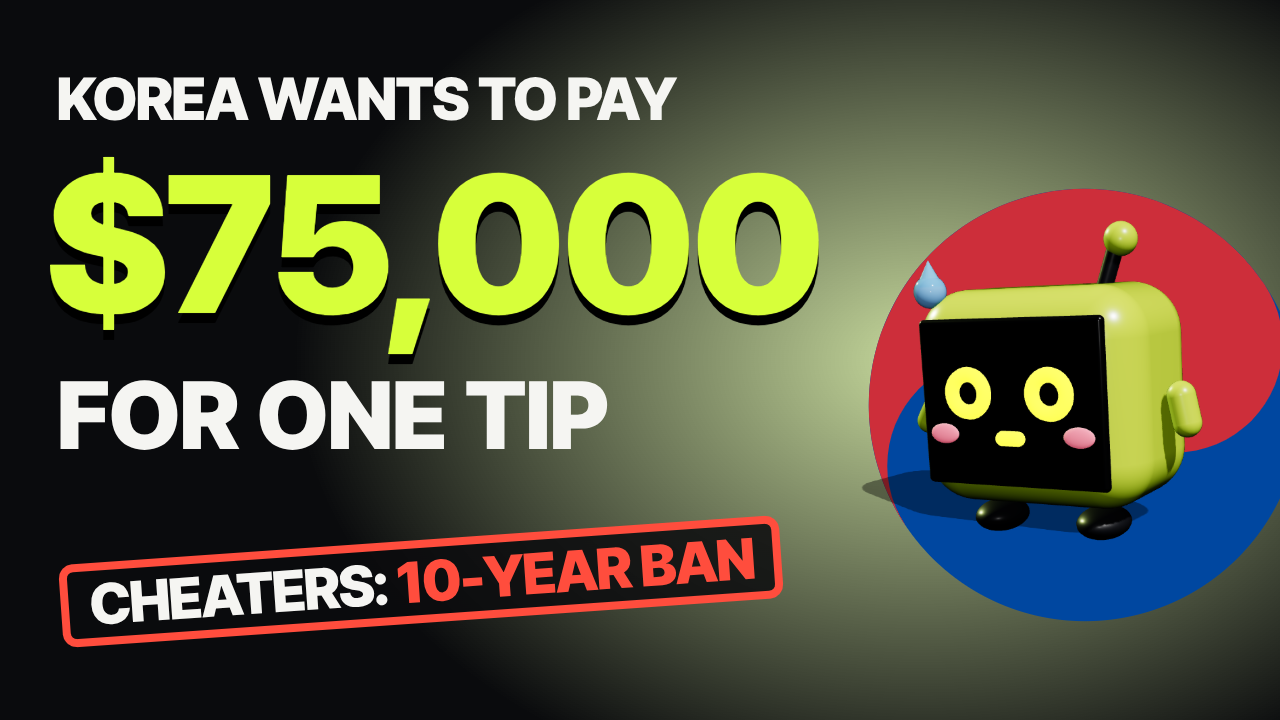
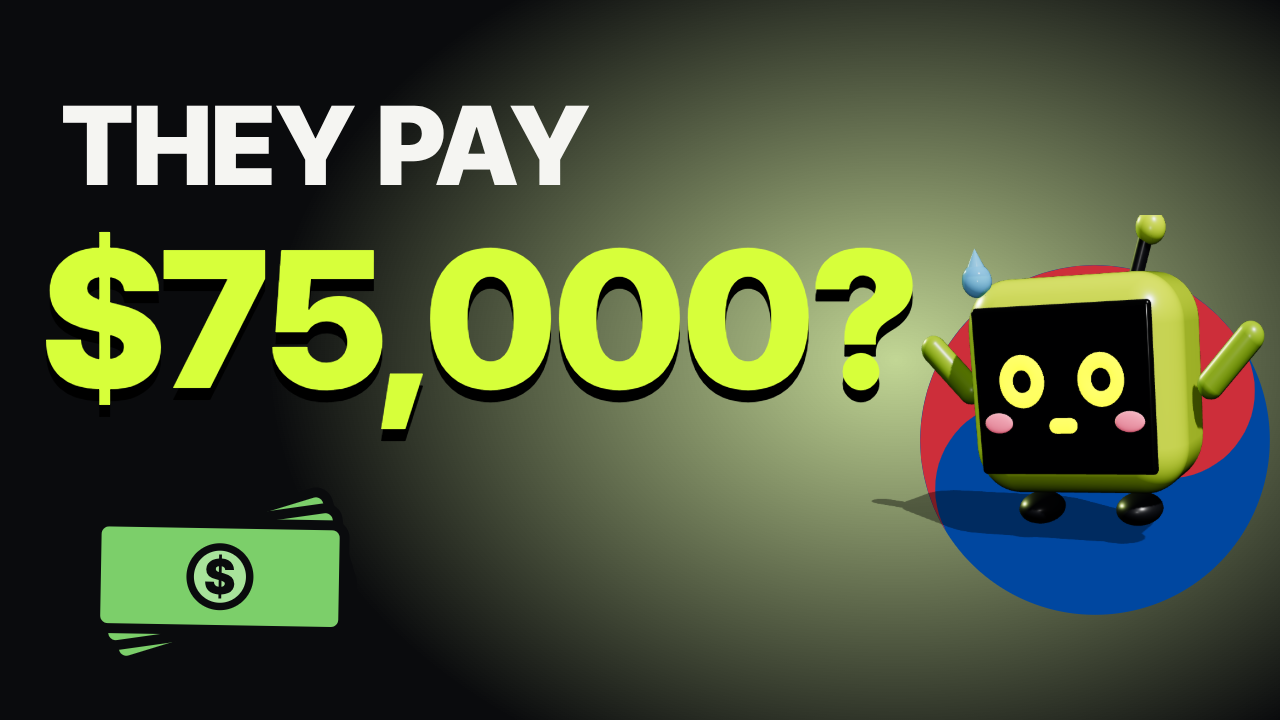
sn02: new thumbnail 'THEY PAY $75,000?', 9:16 Shorts cover, titles linted with yt-package
Claude-Session: https://claude.ai/code/session_01YBPD5nAmahahCY738DBJBU

diff --git a/video/src/sn02/Thumb.tsx b/video/src/sn02/Thumb.tsx
@@ -2,27 +2,72 @@ import React from "react";
 import { AbsoluteFill, Img, staticFile } from "remotion";
 import { useFonts } from "../StyleFrames";
 
-// Thumbnail (1280×720) for sn02: the ₩100M (~$75,000) cheating bounty. No photos of students or test sites.
+// sn02 thumbnails. No photos of students or test sites.
+// v "A": first version (number + 10-year stamp). v "B": "THEY PAY $75,000?" (chosen; title carries the ban).
 const LIME = "#D7FF3A";
 const INK = "#F5F5F2";
 const RED = "#FF4D3D";
 const font: React.CSSProperties = { fontFamily: "Pretendard", fontWeight: 900, letterSpacing: -3, lineHeight: 0.95 };
 
-export const Sn02Thumb: React.FC = () => {
+const Disc: React.FC<{ size: number; x: number; y: number }> = ({ size, x, y }) => (
+  <svg width={size} height={size} viewBox="-1 -1 2 2" style={{ position: "absolute", left: x, top: y, rotate: "-34deg" }}>
+    <circle r={0.92} fill="#0047A0" />
+    <path d="M -0.92 0 A 0.92 0.92 0 0 1 0.92 0 A 0.46 0.46 0 0 1 0 0 A 0.46 0.46 0 0 0 -0.92 0 Z" fill="#CD2E3A" />
+  </svg>
+);
+
+// a fanned stack of bills, drawn in code
+const Cash: React.FC<{ x: number; y: number; w: number; rot?: number }> = ({ x, y, w, rot = -10 }) => (
+  <svg width={w} height={w * 0.62} viewBox="0 0 240 150" style={{ position: "absolute", left: x, top: y, rotate: `${rot}deg` }}>
+    {[0, 1, 2].map((i) => (
+      <g key={i} transform={`rotate(${(i - 1) * 9} 120 75)`}>
+        <rect x="20" y="35" width="200" height="86" rx="10" fill="#7ccf6a" stroke="#0A0B0D" strokeWidth="8" />
+        <circle cx="120" cy="78" r="24" fill="#a8e39b" stroke="#0A0B0D" strokeWidth="6" />
+        <text x="120" y="92" textAnchor="middle" fontFamily="Pretendard" fontWeight="900" fontSize="40" fill="#0A0B0D">$</text>
+      </g>
+    ))}
+  </svg>
+);
+
+export const Sn02Thumb: React.FC<{ v?: "A" | "B" }> = ({ v = "B" }) => {
+  useFonts();
+  if (v === "A")
+    return (
+      <AbsoluteFill style={{ background: "radial-gradient(70% 90% at 72% 50%, rgba(120,165,20,0.42) 0%, #0A0B0D 70%)" }}>
+        <div style={{ ...font, position: "absolute", left: 56, top: 70, fontSize: 60, color: INK }}>KOREA WANTS TO PAY</div>
+        <div style={{ ...font, position: "absolute", left: 44, top: 150, fontSize: 196, color: LIME, letterSpacing: -8, textShadow: "0 10px 0 #000" }}>$75,000</div>
+        <div style={{ ...font, position: "absolute", left: 56, top: 370, fontSize: 96, color: INK }}>FOR ONE TIP</div>
+        <div style={{ ...font, position: "absolute", left: 60, top: 540, fontSize: 58, color: INK, rotate: "-4deg", border: `8px solid ${RED}`, borderRadius: 14, padding: "6px 20px", background: "rgba(10,11,13,0.85)" }}>
+          CHEATERS: <span style={{ color: RED }}>10-YEAR BAN</span>
+        </div>
+        <Disc size={404} x={850} y={170} />
+        <Img src={staticFile("bc01/blip/shock.png")} style={{ position: "absolute", left: 790, top: 170, width: 540, height: 540 }} />
+      </AbsoluteFill>
+    );
+  return (
+    <AbsoluteFill style={{ background: "radial-gradient(70% 90% at 70% 50%, rgba(120,165,20,0.45) 0%, #0A0B0D 70%)" }}>
+      <div style={{ ...font, position: "absolute", left: 60, top: 92, fontSize: 112, color: INK }}>THEY PAY</div>
+      <div style={{ ...font, position: "absolute", left: 40, top: 225, fontSize: 196, color: LIME, letterSpacing: -9, textShadow: "0 12px 0 #000" }}>$75,000?</div>
+      <Cash x={70} y={480} w={300} rot={-8} />
+      <Disc size={380} x={905} y={250} />
+      <Img src={staticFile("bc01/blip/panic.png")} style={{ position: "absolute", left: 845, top: 215, width: 500, height: 500 }} />
+    </AbsoluteFill>
+  );
+};
+
+// Shorts cover (9:16). Same promise, stacked.
+export const Sn02Cover: React.FC = () => {
   useFonts();
   return (
-    <AbsoluteFill style={{ background: "radial-gradient(70% 90% at 72% 50%, rgba(120,165,20,0.42) 0%, #0A0B0D 70%)" }}>
-      <div style={{ ...font, position: "absolute", left: 56, top: 70, fontSize: 60, color: INK }}>KOREA WANTS TO PAY</div>
-      <div style={{ ...font, position: "absolute", left: 44, top: 150, fontSize: 196, color: LIME, letterSpacing: -8, textShadow: "0 10px 0 #000" }}>$75,000</div>
-      <div style={{ ...font, position: "absolute", left: 56, top: 370, fontSize: 96, color: INK }}>FOR ONE TIP</div>
-      <div style={{ ...font, position: "absolute", left: 60, top: 540, fontSize: 58, color: INK, rotate: "-4deg", border: `8px solid ${RED}`, borderRadius: 14, padding: "6px 20px", background: "rgba(10,11,13,0.85)" }}>
-        CHEATERS: <span style={{ color: RED }}>10-YEAR BAN</span>
+    <AbsoluteFill style={{ background: "radial-gradient(70% 50% at 50% 55%, rgba(120,165,20,0.45) 0%, #0A0B0D 72%)" }}>
+      <div style={{ ...font, position: "absolute", left: 0, right: 0, top: 260, textAlign: "center", fontSize: 150, color: INK }}>THEY PAY</div>
+      <div style={{ ...font, position: "absolute", left: 0, right: 0, top: 420, textAlign: "center", fontSize: 230, color: LIME, letterSpacing: -10, textShadow: "0 12px 0 #000" }}>$75,000?</div>
+      <Disc size={620} x={230} y={820} />
+      <Img src={staticFile("bc01/blip/panic.png")} style={{ position: "absolute", left: 140, top: 720, width: 800, height: 800 }} />
+      <Cash x={60} y={1440} w={330} rot={-10} />
+      <div style={{ ...font, position: "absolute", left: 0, right: 0, bottom: 150, textAlign: "center", fontSize: 54, letterSpacing: 0, color: "#0A0B0D" }}>
+        <span style={{ background: LIME, padding: "8px 22px", borderRadius: 12 }}>BLIP CHECK &gt;_</span>
       </div>
-      <svg width={470} height={470} viewBox="-1 -1 2 2" style={{ position: "absolute", left: 850, top: 170, rotate: "-34deg" }}>
-        <circle r={0.92} fill="#0047A0" />
-        <path d="M -0.92 0 A 0.92 0.92 0 0 1 0.92 0 A 0.46 0.46 0 0 1 0 0 A 0.46 0.46 0 0 0 -0.92 0 Z" fill="#CD2E3A" />
-      </svg>
-      <Img src={staticFile("bc01/blip/shock.png")} style={{ position: "absolute", left: 790, top: 170, width: 540, height: 540 }} />
     </AbsoluteFill>
   );
 };

diff --git a/video/src/Root.tsx b/video/src/Root.tsx
@@ -18,7 +18,7 @@ import { Sn01Short, SN01S_DURATION } from "./sn01/Sn01Short";
 import { Sn01Thumb } from "./sn01/Thumb";
 import { Sn02Full, SN02_DURATION } from "./sn02/Sn02";
 import { Sn02Short, SN02S_DURATION } from "./sn02/Sn02Short";
-import { Sn02Thumb } from "./sn02/Thumb";
+import { Sn02Cover, Sn02Thumb } from "./sn02/Thumb";
 import { Bc01Short, BC01S_DURATION } from "./bc01/Short";
 import { MascotSheet } from "./mascot/Mascots";
 import { PromptMascot } from "./mascot/Prompt";
@@ -49,7 +49,8 @@ export const RemotionRoot: React.FC = () => {
         />
       </Folder>
       <Folder name="Sn02">
-        <Composition id="Sn02Thumb" component={Sn02Thumb} durationInFrames={1} fps={30} width={1280} height={720} />
+        <Composition id="Sn02Thumb" component={Sn02Thumb} durationInFrames={1} fps={30} width={1280} height={720} defaultProps={{ v: "B" as const }} />
+        <Composition id="Sn02Cover" component={Sn02Cover} durationInFrames={1} fps={30} width={1080} height={1920} />
         <Composition id="Sn02Short" component={Sn02Short} durationInFrames={SN02S_DURATION} fps={30} width={1080} height={1920} />
         <Composition id="Sn02Full" component={Sn02Full} durationInFrames={SN02_DURATION} fps={30} width={1920} height={1080} />
       </Folder>

diff --git a/shorts/sn02-suneung-bounty/post.md b/shorts/sn02-suneung-bounty/post.md
@@ -38,15 +38,15 @@ Post on **Nov 19 2026 (KST)**: the script says "today" for the exam day.
 
 Not used: the LEET top scorer story (an individual under allegations; a missing-person report was in the news on Nov 19).
 
-## Title
+## Title and thumbnail (linted with yt-package)
 
-**Korea Will Pay $75,000 to Catch One Exam Cheater. How Much Is Real?** (recommended)
+**Long-form:** `Korea's Exam Cheaters Could Face a 10-Year Ban` + thumbnail **THEY PAY $75,000?** (`thumbnail.png`)
+- title and thumbnail carry different hooks (ban vs money); "could" and the question mark keep both accurate
 
-Alternatives:
-- Korea's $75,000 Cheating Bounty, Explained
-- Cheat on This Exam, Get Banned for 10 Years? What's Real So Far
+**Shorts:** `Korea Wants to Pay $75,000 for One Cheating Tip` + cover **THEY PAY $75,000?** (`shorts-cover.png`, 9:16)
 
-Shorts: **Korea Will Pay $75,000 for One Cheating Tip**
+Earlier pairing "Korea Will Pay $75,000 to Catch One Exam Cheater. How Much Is Real?" + a 13-word thumbnail scored 52/100
+(title over 60 characters, thumbnail repeating the title).
 
 ## Description (same format YouTube accepted for sn01: no links, no emoji, no ampersand)
 
